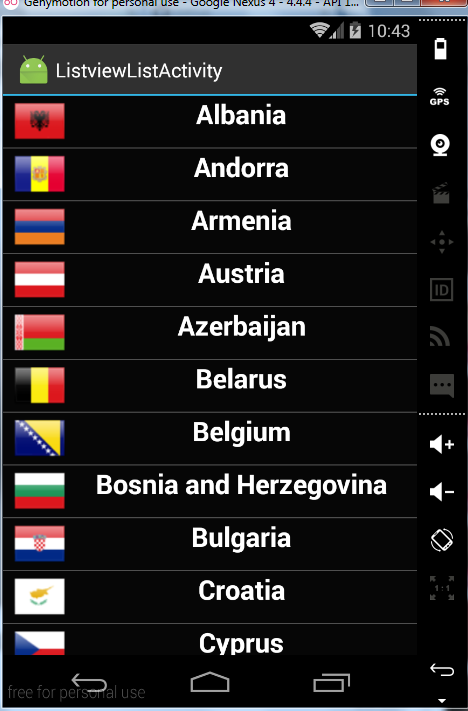
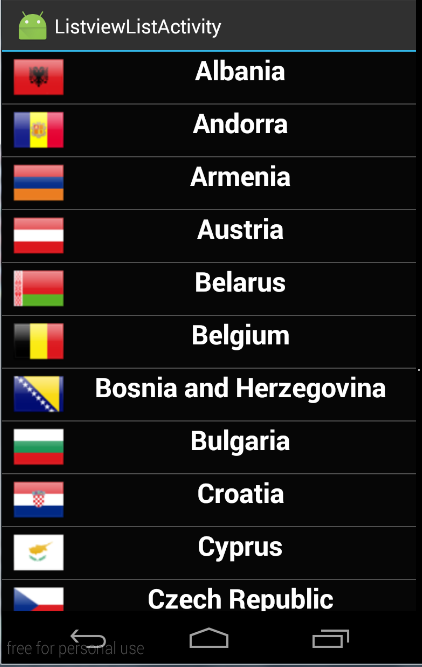
third commit

diff --git a/app/src/main/java/com/example/el_tayr/listviewlistactivity/MainActivity.java b/app/src/main/java/com/example/el_tayr/listviewlistactivity/MainActivity.java
@@ -21,10 +21,10 @@ import java.io.ByteArrayOutputStream;
 import java.util.List;
 
 public class MainActivity extends Activity {
-  /*  private int[] textureArrayWin = {
+ /*  private int[] textureArrayWin = {
             R.mipmap.albania,R.mipmap.andorra,R.mipmap.armenia,R.mipmap.austria,R.mipmap.belarus,R.mipmap.belgium,
             R.mipmap.bosniaherzegovina,R.mipmap.bulgaria,R.mipmap.croatia,R.mipmap.cyprus,R.mipmap.czechrepublic,
-            R.mipmap.denmark,R.mipmap.england,R.mipmap.estonia,R.mipmap.finland,R.mipmap.france,
+            R.mipmap.denmark,R.mipmap.estonia,R.mipmap.finland,R.mipmap.france,
             R.mipmap.georgia,R.mipmap.germany,R.mipmap.greece,R.mipmap.hungary,R.mipmap.iceland,R.mipmap.ireland,
             R.mipmap.italy,R.mipmap.kazakhstan,R.mipmap.kosovo,R.mipmap.latvia,R.mipmap.liechtenshein,R.mipmap.lithuania,
             R.mipmap.luxembourg,R.mipmap.macedonia,R.mipmap.malta,R.mipmap.moldova,R.mipmap.monaco,R.mipmap.montenegro,
@@ -34,7 +34,7 @@ public class MainActivity extends Activity {
             R.mipmap.vaticancity
     };
     private String[] countrynames={"Albania","Andorra","Armenia",
-           "Austria","Azerbaijan","Belarus", "Belgium", "Bosnia and Herzegovina", "Bulgaria","Croatia","Cyprus",
+           "Austria","Belarus", "Belgium", "Bosnia and Herzegovina", "Bulgaria","Croatia","Cyprus",
             "Czech Republic", "Denmark", "Estonia", "Finland", "France", "Georgia", "Germany", "Greece", "Hungary", "Iceland", "Ireland",
             "Italy", "Kazakhstan","Kosovo", "Latvia", "Liechtenstein", "Lithuania", "Luxembourg", "Macedonia", "Malta", "Moldova",
             "Monaco", "Montenegro", "Netherlands", "Norway", "Poland", "Portugal", "Romania", "Russia", "San Marino",
@@ -53,7 +53,7 @@ public class MainActivity extends Activity {
 
         final ListView listemiz = (ListView) findViewById(R.id.listView);
         CDataBase cDB = new CDataBase(getApplicationContext());
-       /* for(int i=0;i<textureArrayWin.length;i++)
+      /*  for(int i=0;i<textureArrayWin.length;i++)
         {
             Bitmap image = BitmapFactory.decodeResource(getResources(), textureArrayWin[i]);
 
